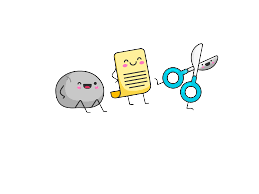
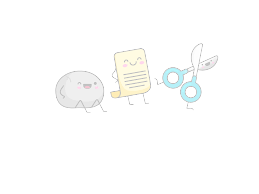
completed game woth all features

Changed region(s): [[0.1853, 0.2165, 0.8649, 0.5876], [0.7104, 0.2784, 0.7413, 0.3093], [0.556, 0.5258, 0.5869, 0.5567]]

diff --git a/index.js b/index.js
@@ -30,9 +30,16 @@ function game(e) {
   if (e.target.id === "sissors") {
     scoreKeeper(playRound("sissors", computerPlay()));
   }
-  // if (e.target.id === "gun") {
-  //   logic for the gun
-  // }
+  if (e.target.id === "gun") {
+    scoreKeeper(Math.floor(Math.random() * 2));
+  }
+
+  function gameOver() {
+    rock.removeAttribute("id");
+    paper.removeAttribute("id");
+    sissors.removeAttribute("id");
+    gun.removeAttribute("id");
+  }
 
   function scoreKeeper(result) {
     const roundResults = document.querySelector(".round-results");
@@ -54,12 +61,25 @@ function game(e) {
       roundResults.innerText = "Round Lost";
       document.querySelector("#computer-score").innerText = computerScore;
     }
+    if (result === 1) {
+      playerScore = 5;
+      document.querySelector("#player-score").innerText = playerScore;
+      roundResults.innerText = `you brought a gun to a ${computerPlay()} fight`;
+      resetBtn.style.visibility = "visible";
+      gameOver();
+      return;
+    }
+    if (result === 0) {
+      computerScore = 5;
+      document.querySelector("#computer-score").innerText = computerScore;
+      roundResults.innerText = `you rolled the dice and lost...`;
+      resetBtn.style.visibility = "visible";
+      gameOver();
+      return;
+    }
 
     if (playerScore === 5 || computerScore === 5) {
-      rock.removeAttribute("id");
-      paper.removeAttribute("id");
-      sissors.removeAttribute("id");
-      gun.removeAttribute("id");
+      gameOver();
     }
 
     if (playerScore === 5) {
@@ -68,7 +88,7 @@ function game(e) {
     }
 
     if (computerScore === 5) {
-      roundResults.innerText = "Loser!";
+      roundResults.innerText = "You lose!";
       resetBtn.style.visibility = "visible";
     }
   }
@@ -96,7 +116,7 @@ function ruleHider() {
 }
 playButton.addEventListener("click", ruleHider);
 
-function handlerAdder() {
+(function handlerAdder() {
   const weapons = [
     document.querySelector("#rock"),
     document.querySelector("#paper"),
@@ -104,21 +124,13 @@ function handlerAdder() {
     document.querySelector("#gun"),
   ];
   weapons.forEach((e) => e.addEventListener("click", game));
-}
+})();
 
-handlerAdder();
-
-// const rock = document.querySelector("#rock");
-// rock.addEventListener("click", game);
-
-// const paper = document.querySelector("#paper");
-// paper.addEventListener("click", game);
-
-// const sissors = document.querySelector("#sissors");
-// sissors.addEventListener("click", game);
-
-// const gun = document.querySelector("#gun");
-// gun.addEventListener("click", game);
+// const gun = document.querySelector('#gun')
+// function cheating() {
+//   let randomNum = Math.floor(Math.random() * (2)
+// }
+// gun.addEventListener("click", cheating)
 
 const reset = document.querySelector("#reset-btn");
 function resetGame() {

diff --git a/index.html b/index.html
@@ -31,7 +31,7 @@
           src="src/rules.png"
           alt="image showing rules for rock paper sissors"
         />
-        <button type="button" class="rules-button">click to play</button>
+        <button type="button" class="rules-button">START</button>
       </div>
     </div>
     <!-- game controls -->
@@ -49,7 +49,7 @@
         </div>
       </div>
       <div class="round-results-container">
-        <div class="round-results">'Winner!'</div>
+        <div class="round-results"></div>
         <button id="reset-btn" type="button">reset</button>
       </div>
       <div class="weapon-icons">

diff --git a/index.css b/index.css
@@ -24,7 +24,7 @@ a:focus {
 }
 
 body {
-  background-image: url("src/test.png");
+  background-image: url("src/happy-rpc.png");
   background-color: rgba(11, 104, 30, 0.249);
 }
 
